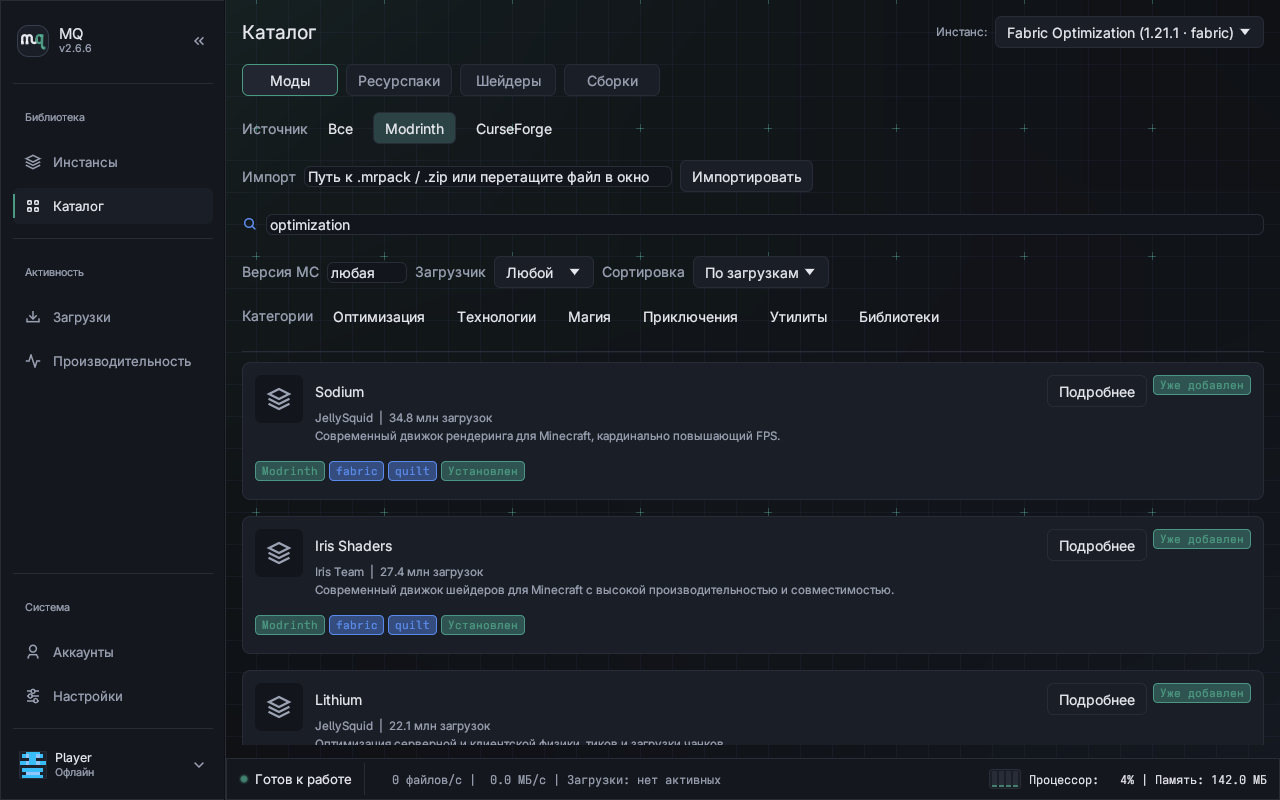
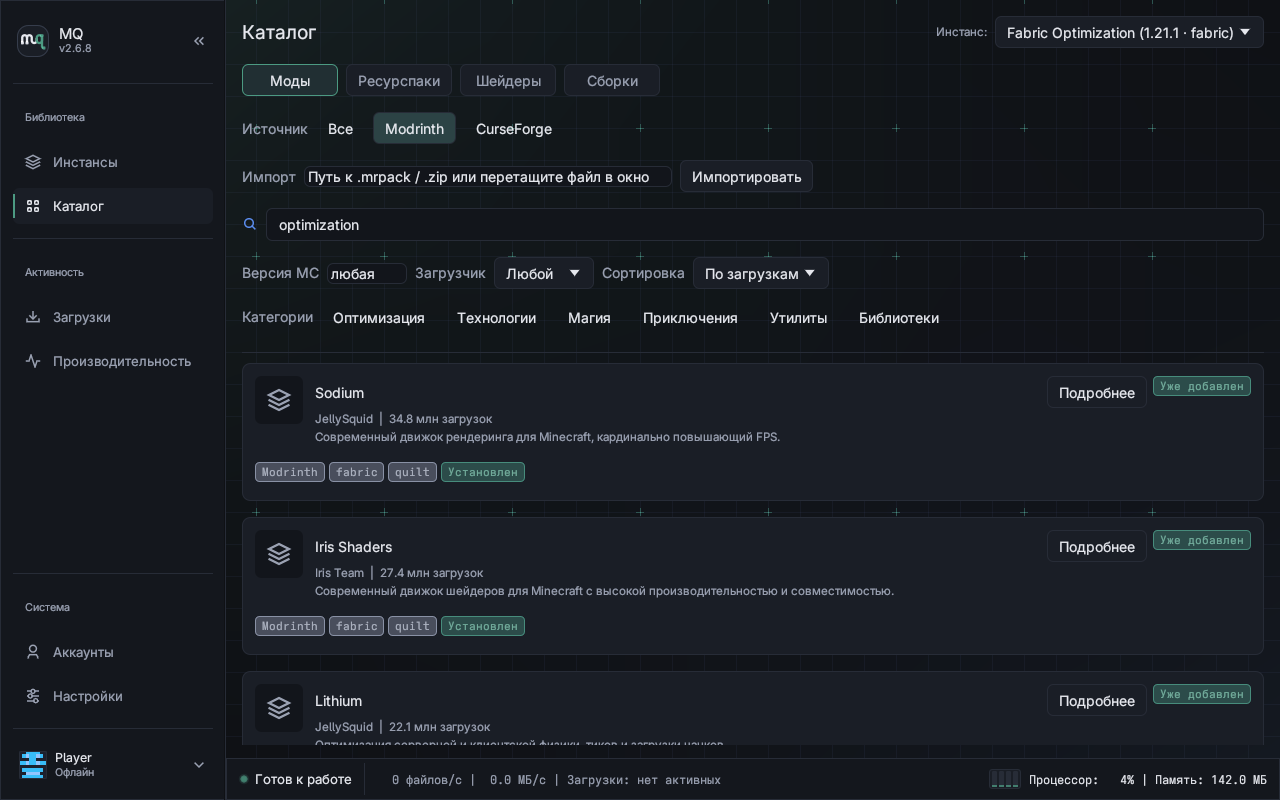
release: v2.6.8 — sync release with post-QA CI fixes, demo screenshots, and packaging manifests

diff --git a/CHANGELOG.md b/CHANGELOG.md
@@ -5,6 +5,18 @@
 
 ---
 
+## [v2.6.8] — 2026-11-18 ("CI Smoke Stabilization, Updated Demo Screenshots & Packaging Sync")
+
+### Исправлено и улучшено
+- **UI и детерминизм каталога (`mq-ui`):**
+  - Включена пост-QA доработка детерминированного режима каталога (`is_deterministic_test_mode`) и перегенерированы актуальные демо-скриншоты интерфейса в `docs/assets/screenshots/` по состоянию после QA-исправлений.
+- **Стабильность headless CI:**
+  - Зафиксирована установка системных зависимостей `libglx-mesa0` и `libxkbcommon-x11-0` для стабильного запуска Xvfb + `--backend glow` в GitHub Actions.
+- **Синхронизация пакетных манифестов (`packaging/`):**
+  - Обновлены версии и ссылки релиза до `2.6.8` в `PKGBUILD`, Scoop (`packaging/scoop/mq.json`), Winget (`packaging/winget/`), Inno Setup (`packaging/windows/mq.iss`) и примерах `install.ps1`.
+
+---
+
 ## [v2.6.7] — 2026-11-15 ("Autonomous QA Hardening, Loader/Mod Fixes & CI Smoke")
 
 ### Исправлено и улучшено

diff --git a/packaging/winget/README.md b/packaging/winget/README.md
@@ -22,7 +22,7 @@ winget install --manifest packaging/winget/MrQuster.MQ.yaml
 To validate the manifest format with `winget`:
 
 ```powershell
-winget validate packaging/winget/manifests/m/MrQuster/MQ/2.6.5/
+winget validate packaging/winget/manifests/m/MrQuster/MQ/2.6.8/
 ```
 
 ## Submitting a New Release Upstream
